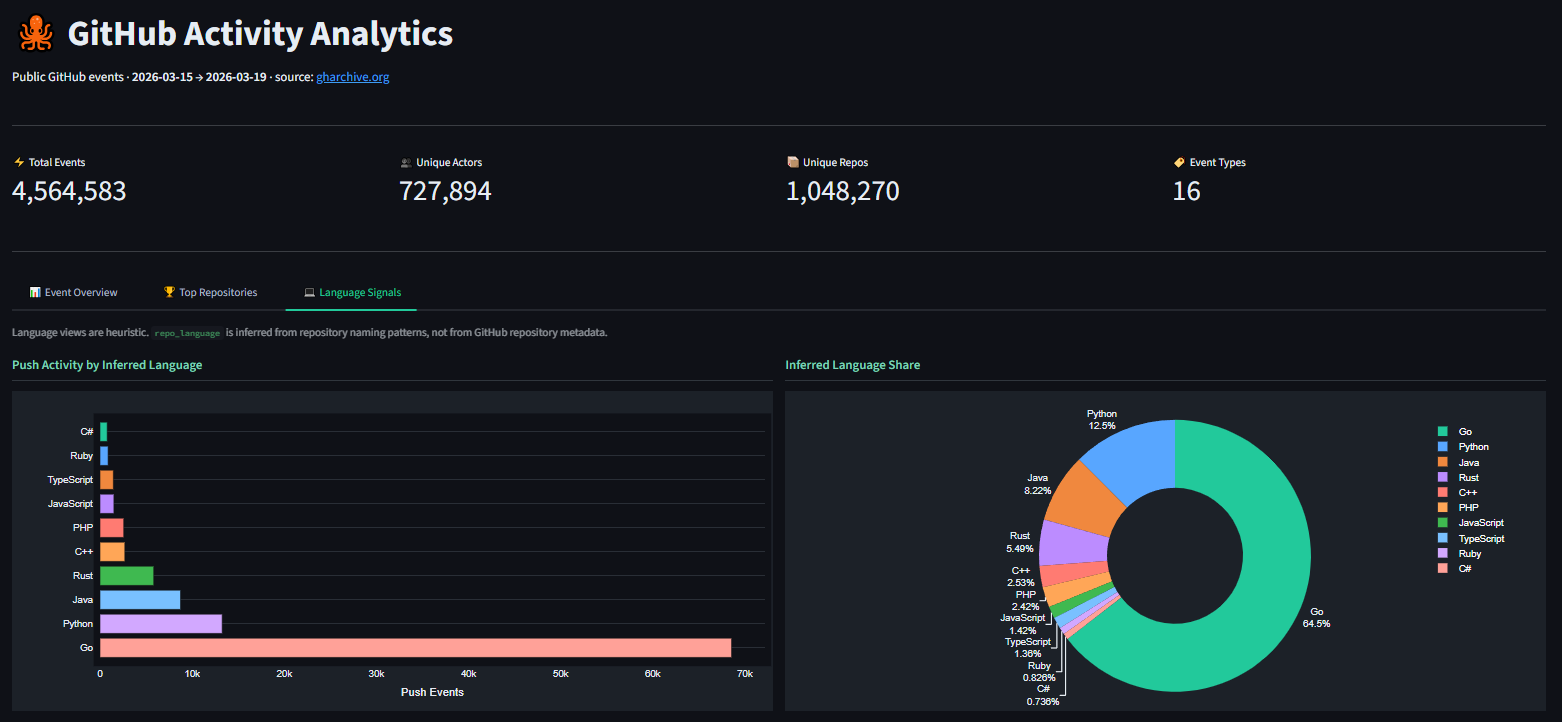
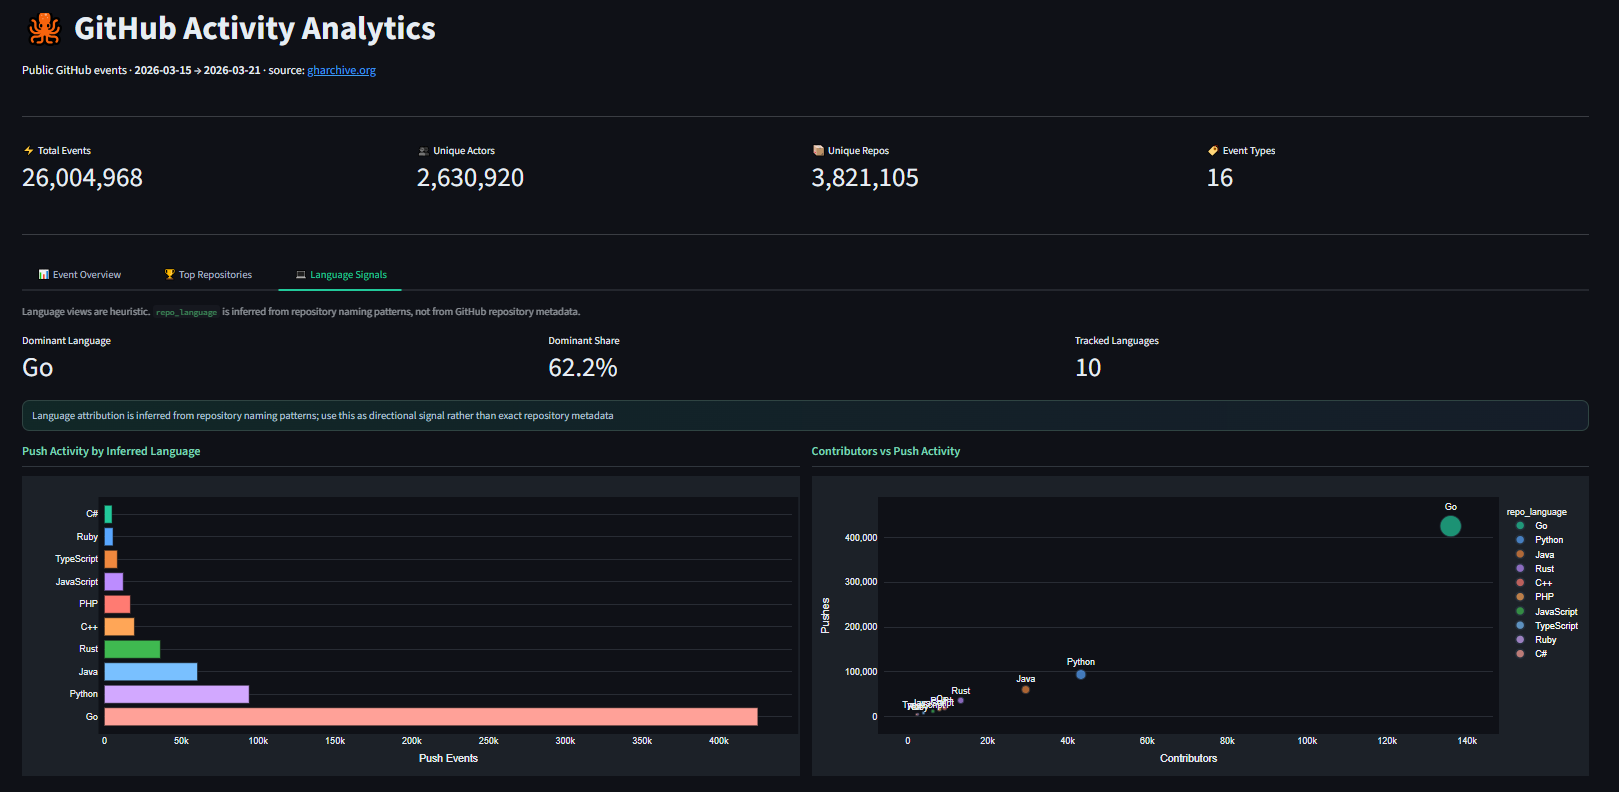
docs: refresh dashboard screenshots and refine architecture diagram

diff --git a/README.md b/README.md
@@ -49,9 +49,13 @@ The pipeline ingests hourly NDJSON archives from gharchive.org, lands them in a 
 
 The Streamlit application has been deployed to Cloud Run and is available for reviewer demonstration upon request. Screenshots below show the dashboard interface and deployment proof.
 
-| Event Overview | Top Repositories |
+| Event Overview (Summary) | Top Repositories (Summary) |
 |---|---|
-| ![Event Overview](docs/screenshots/01_event_overview.png) | ![Top Repositories](docs/screenshots/02_top_repositories.png) |
+| ![Event Overview Summary](docs/screenshots/01_event_overview_0.png) | ![Top Repositories Summary](docs/screenshots/02_top_repositories_0.png) |
+
+| Event Overview (Detailed) | Top Repositories (Detailed) |
+|---|---|
+| ![Event Overview Detailed](docs/screenshots/01_event_overview_1.png) | ![Top Repositories Detailed](docs/screenshots/02_top_repositories_1.png) |
 
 | Language Signals |
 |---|
@@ -69,9 +73,11 @@ The Streamlit application has been deployed to Cloud Run and is available for re
 flowchart LR
     SRC["gharchive.org\nHourly NDJSON (.gz)"]
 
-    subgraph ORCH["Pipeline & Infrastructure"]
-        BRUIN["Bruin CLI\nIngestion + SQL + Data Checks"]
-        TF["Terraform\nGCP Infrastructure as Code"]
+    subgraph ORCH["Orchestration & Delivery"]
+        BRUIN["Bruin CLI\nLocal/CI execution"]
+        BCLOUD["Bruin Cloud (optional)\nManaged schedules + run monitor"]
+        TF["Terraform\nInfrastructure as Code"]
+        GCLOUD["gcloud run deploy\nOperational fallback"]
         CI["GitHub Actions\nTests + Quality Gates"]
     end
 
@@ -96,16 +102,25 @@ flowchart LR
 
     TF -->|provisions| GCS
     TF -->|provisions| WH
-    TF -->|provisions| APP
+    TF -->|provisions/updates| APP
+    GCLOUD -->|direct deploy/update| APP
 
     SRC -->|hourly fetch| BRUIN
+    SRC -->|hourly fetch (managed)| BCLOUD
     BRUIN -->|lands raw files| GCS
+    BCLOUD -->|lands raw files| GCS
     BRUIN -->|loads raw data| RAW
+    BCLOUD -->|loads raw data| RAW
     BRUIN -->|staging SQL| STG
+    BCLOUD -->|staging SQL| STG
     BRUIN -->|mart SQL| M1
     BRUIN -->|mart SQL| M2
     BRUIN -->|mart SQL| M3
     BRUIN -->|mart SQL| M4
+    BCLOUD -->|mart SQL| M1
+    BCLOUD -->|mart SQL| M2
+    BCLOUD -->|mart SQL| M3
+    BCLOUD -->|mart SQL| M4
 
     M1 --> APP
     M2 --> APP
@@ -115,6 +130,10 @@ flowchart LR
     USER -->|HTTPS| APP
     CI -->|validates repository changes| BRUIN
 ```
+
+The repo's default path is **Bruin CLI + Terraform**. **Bruin Cloud** is optional and uses the same pipeline code.
+For app rollouts, Terraform is the primary path; direct `gcloud run deploy` is a documented operational fallback when
+billing-budget permissions block Terraform applies.
 
 ## Stack
 